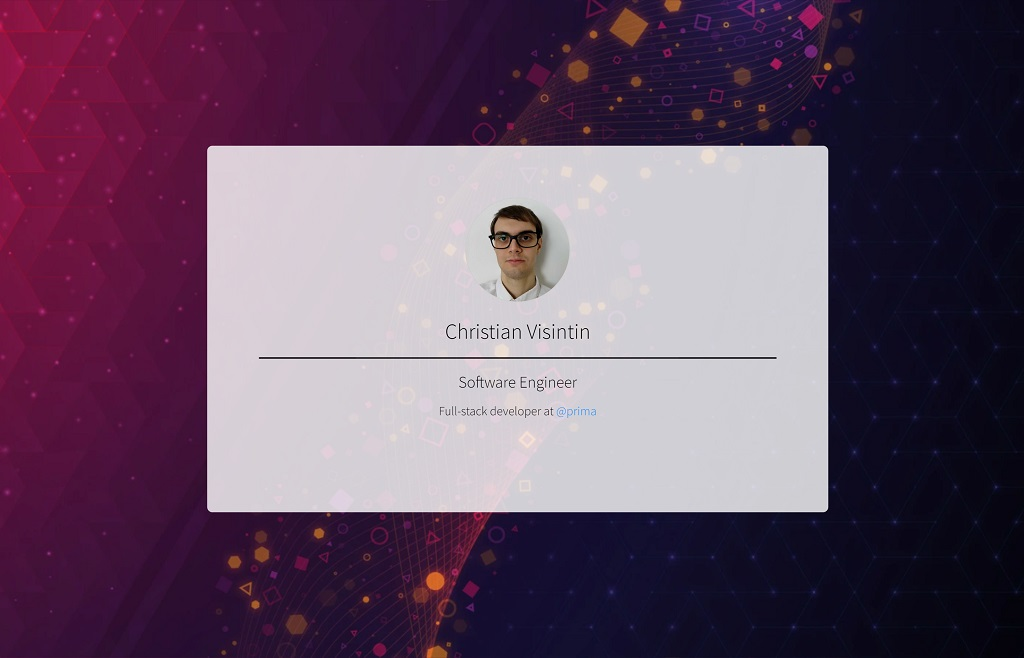
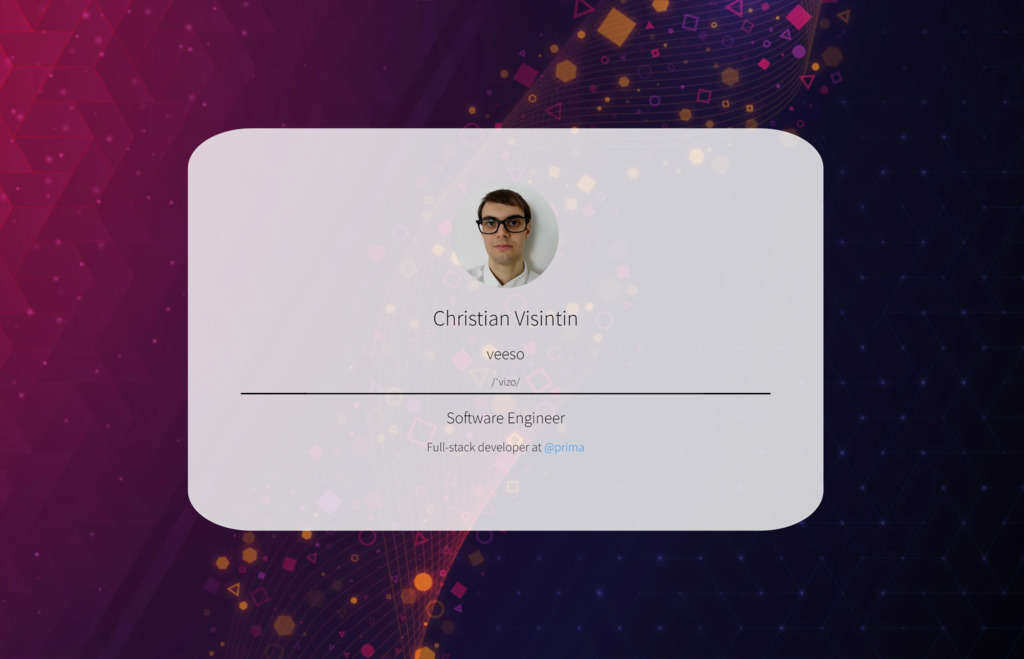
Radius 10% to parallax card; preview

diff --git a/index.html b/index.html
@@ -83,6 +83,7 @@
               <img class="avatar" src="assets/images/avatar.webp" />
             </div>
             <h1>@veeso</h1>
+            <h2>/ˈvizo/</h2>
             <h2>Software Engineer</h2>
           </div>
           <ul class="pure-menu-list">
@@ -116,6 +117,8 @@
           <div class="parallax-card">
             <img class="avatar img-circle" src="assets/images/avatar.webp" />
             <h1>Christian Visintin</h1>
+            <h2>veeso</h2>
+            <span class="pronunciation">/ˈvizo/</span>
             <hr />
             <h2>Software Engineer</h2>
             <h3>

diff --git a/css/main.css b/css/main.css
@@ -206,13 +206,13 @@ h5 {
 
 .parallax-card {
   background-color: rgba(255, 255, 255, 0.8);
-  border-radius: 0.5em;
+  border-radius: 10%;
   color: black;
   text-align: center;
   position: relative;
   margin: auto;
   width: 50%;
-  height: 40%;
+  height: 45%;
   padding: 5%;
   overflow-y: auto;
 }
@@ -236,6 +236,12 @@ p {
 .parallax-card p {
   font-size: 1.2em;
   text-align: center;
+}
+
+.parallax-card .pronunciation {
+  font-size: 1em;
+  line-height: 0.5em;
+  font-weight: 300;
 }
 
 .avatar {
